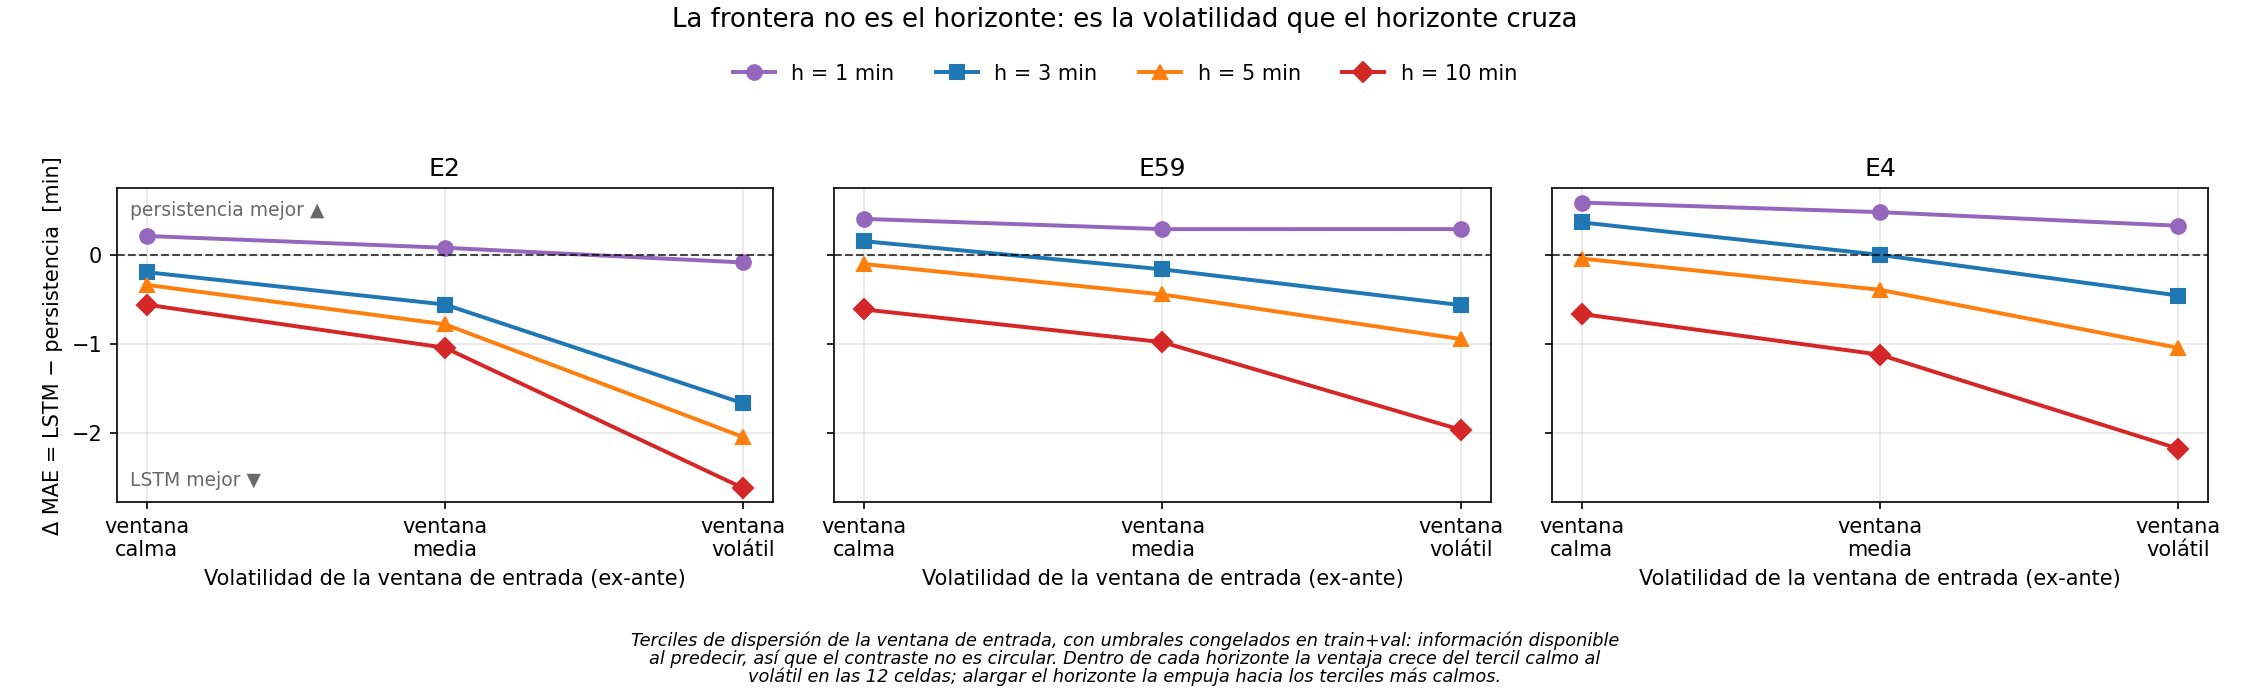
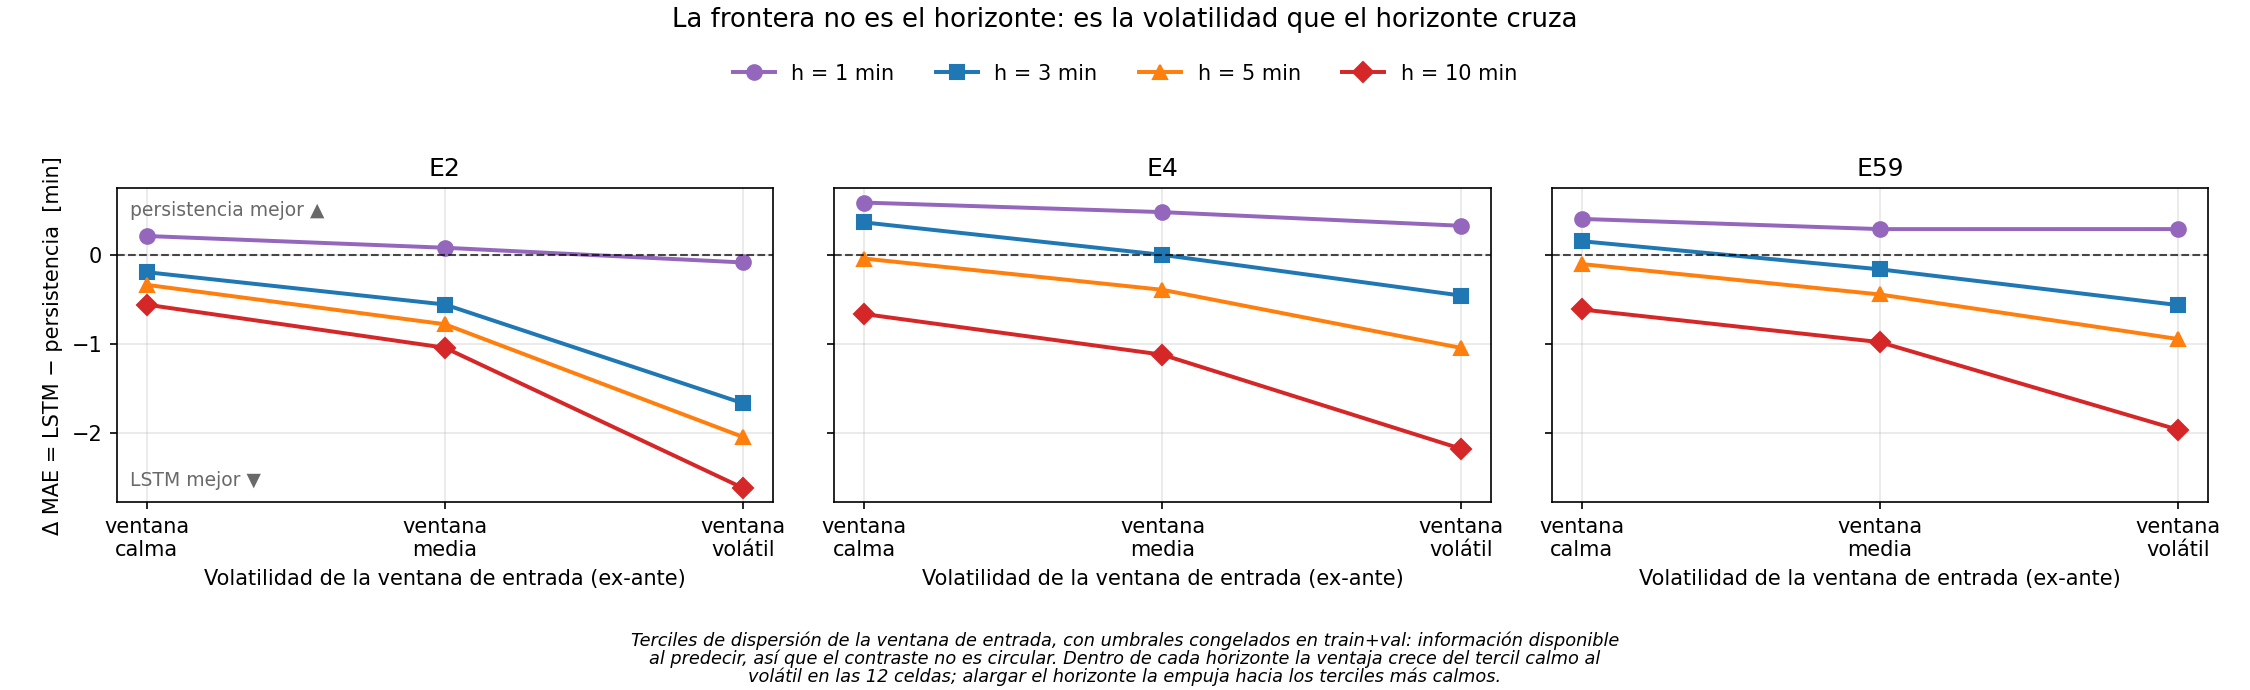
feat(resultados): figura de compresion de dispersion, y paneles en orden de tabla
Los coeficientes de variacion observado y predicho ya estaban en
contiguous_vector_metrics.csv sin graficar. La figura los muestra por modelo y
corredor, y deja ver el control que estaba implicito: la persistencia iguala la
dispersion real (sesgo -0.005 en E2) porque propaga el vector observado, mientras
que los dos aprendices la aplanan por margenes comparables. El efecto es del
pronostico puntual, no de una arquitectura.

Los paneles pasan de E2/E59/E4 a E2/E4/E59 para coincidir con las tablas del
documento; el orden anterior obligaba a re-mapear en cada cruce tabla-figura.
Las figuras de degradacion y volatilidad se regeneran: sus PNG commiteados eran
dos dias anteriores al ultimo cambio del constructor.

diff --git a/src/build_contiguous_figures.py b/src/build_contiguous_figures.py
@@ -45,7 +45,9 @@ REPO_ROOT = Path(__file__).resolve().parent.parent
 CSV_DIR = REPO_ROOT / "docs" / "resultados" / "csv-multihorizon"
 OUT_DIR = REPO_ROOT / "docs" / "resultados"
 
-CORRIDORS = ("E2", "E59", "E4")
+# Panel order matches the tables in the document (E2, E4, E59). It used to be
+# E2/E59/E4, which forced the reader to re-map on every table-figure crossing.
+CORRIDORS = ("E2", "E4", "E59")
 HORIZONS = (1, 3, 5, 10)
 TERCILES = ("low", "mid", "high")
 TERCILE_LABELS = {
@@ -359,9 +361,73 @@ def detection_without_threshold() -> Path:
     return path
 
 
+def dispersion_compression() -> Path:
+    """Observed vs predicted coefficient of variation, by model and corridor.
+
+    This is the cause of the artefact plotted by ``threshold_artifact``: a point
+    forecast emits a vector flatter than the one it describes, so a cut calibrated
+    on observed dispersion lands in its left tail. Persistence is the control —
+    it propagates the observed vector, so it inherits the real dispersion and its
+    bias is ~0. That both learners compress, and by comparable amounts, is what
+    makes this a property of point forecasting rather than of one architecture.
+    """
+    metrics = _load("contiguous_vector_metrics.csv").filter(pl.col("horizon") == 10)
+
+    models = ("Persistence", "LSTM", "XGBoost")
+    labels = {"Persistence": "Persistencia", "LSTM": "LSTM", "XGBoost": "XGBoost"}
+
+    fig, axes = plt.subplots(1, 3, figsize=(15, 4.8), sharey=True)
+    x = range(len(models))
+    bar_w = 0.36
+
+    for ax, corridor in zip(axes, CORRIDORS):
+        sub = metrics.filter(pl.col("corridor") == corridor)
+        true_cv, pred_cv = [], []
+        for model in models:
+            row = sub.filter(pl.col("model") == model)
+            true_cv.append(float(row.get_column("mean_cv_true")[0]))
+            pred_cv.append(float(row.get_column("mean_cv_pred")[0]))
+
+        ax.bar([i - bar_w / 2 for i in x], true_cv, bar_w,
+               color="tab:gray", label="Realidad observada")
+        ax.bar([i + bar_w / 2 for i in x], pred_cv, bar_w,
+               color="tab:red", label="Lo que el modelo predice")
+
+        for i, (t, pr) in enumerate(zip(true_cv, pred_cv)):
+            ax.text(i - bar_w / 2, t + 0.018, f"{t:.2f}", ha="center", fontsize=8.5)
+            ax.text(i + bar_w / 2, pr + 0.018, f"{pr:.2f}", ha="center", fontsize=8.5)
+
+        ax.set_title(corridor)
+        ax.set_xticks(list(x))
+        ax.set_xticklabels([labels[m] for m in models])
+        ax.set_ylim(0, 1.0)
+        ax.grid(True, axis="y", alpha=0.3)
+
+    axes[0].set_ylabel("Coeficiente de variación del vector")
+    fig.suptitle(
+        "La compresión de dispersión: el pronóstico describe un corredor más parejo del que hay",
+        y=0.99, fontsize=12.5,
+    )
+    handles, labels_ = axes[0].get_legend_handles_labels()
+    fig.legend(handles, labels_, loc="upper center", bbox_to_anchor=(0.5, 0.935),
+               ncol=2, frameon=False)
+    _caption(fig, [
+        "Horizonte de 10 minutos. La persistencia propaga el vector observado, así que hereda su dispersión y su barra roja iguala a la gris: es el control.",
+        "Los dos aprendices la aplanan, y por márgenes comparables — el efecto es del pronóstico puntual, no de una arquitectura.",
+        "Sobre un vector aplanado, un corte calibrado en la dispersión real cae en la cola izquierda y no se dispara nunca.",
+    ])
+    fig.tight_layout(rect=(0, 0.13, 1, 0.88))
+
+    path = OUT_DIR / "contiguo-compresion-dispersion.png"
+    fig.savefig(path, dpi=DPI)
+    plt.close(fig)
+    return path
+
+
 def main() -> None:
     for renderer in (
-        degradation, volatility, threshold_artifact, detection_without_threshold
+        degradation, volatility, threshold_artifact, detection_without_threshold,
+        dispersion_compression,
     ):
         path = renderer()
         print(f"Figura escrita en {path.relative_to(REPO_ROOT)}")
